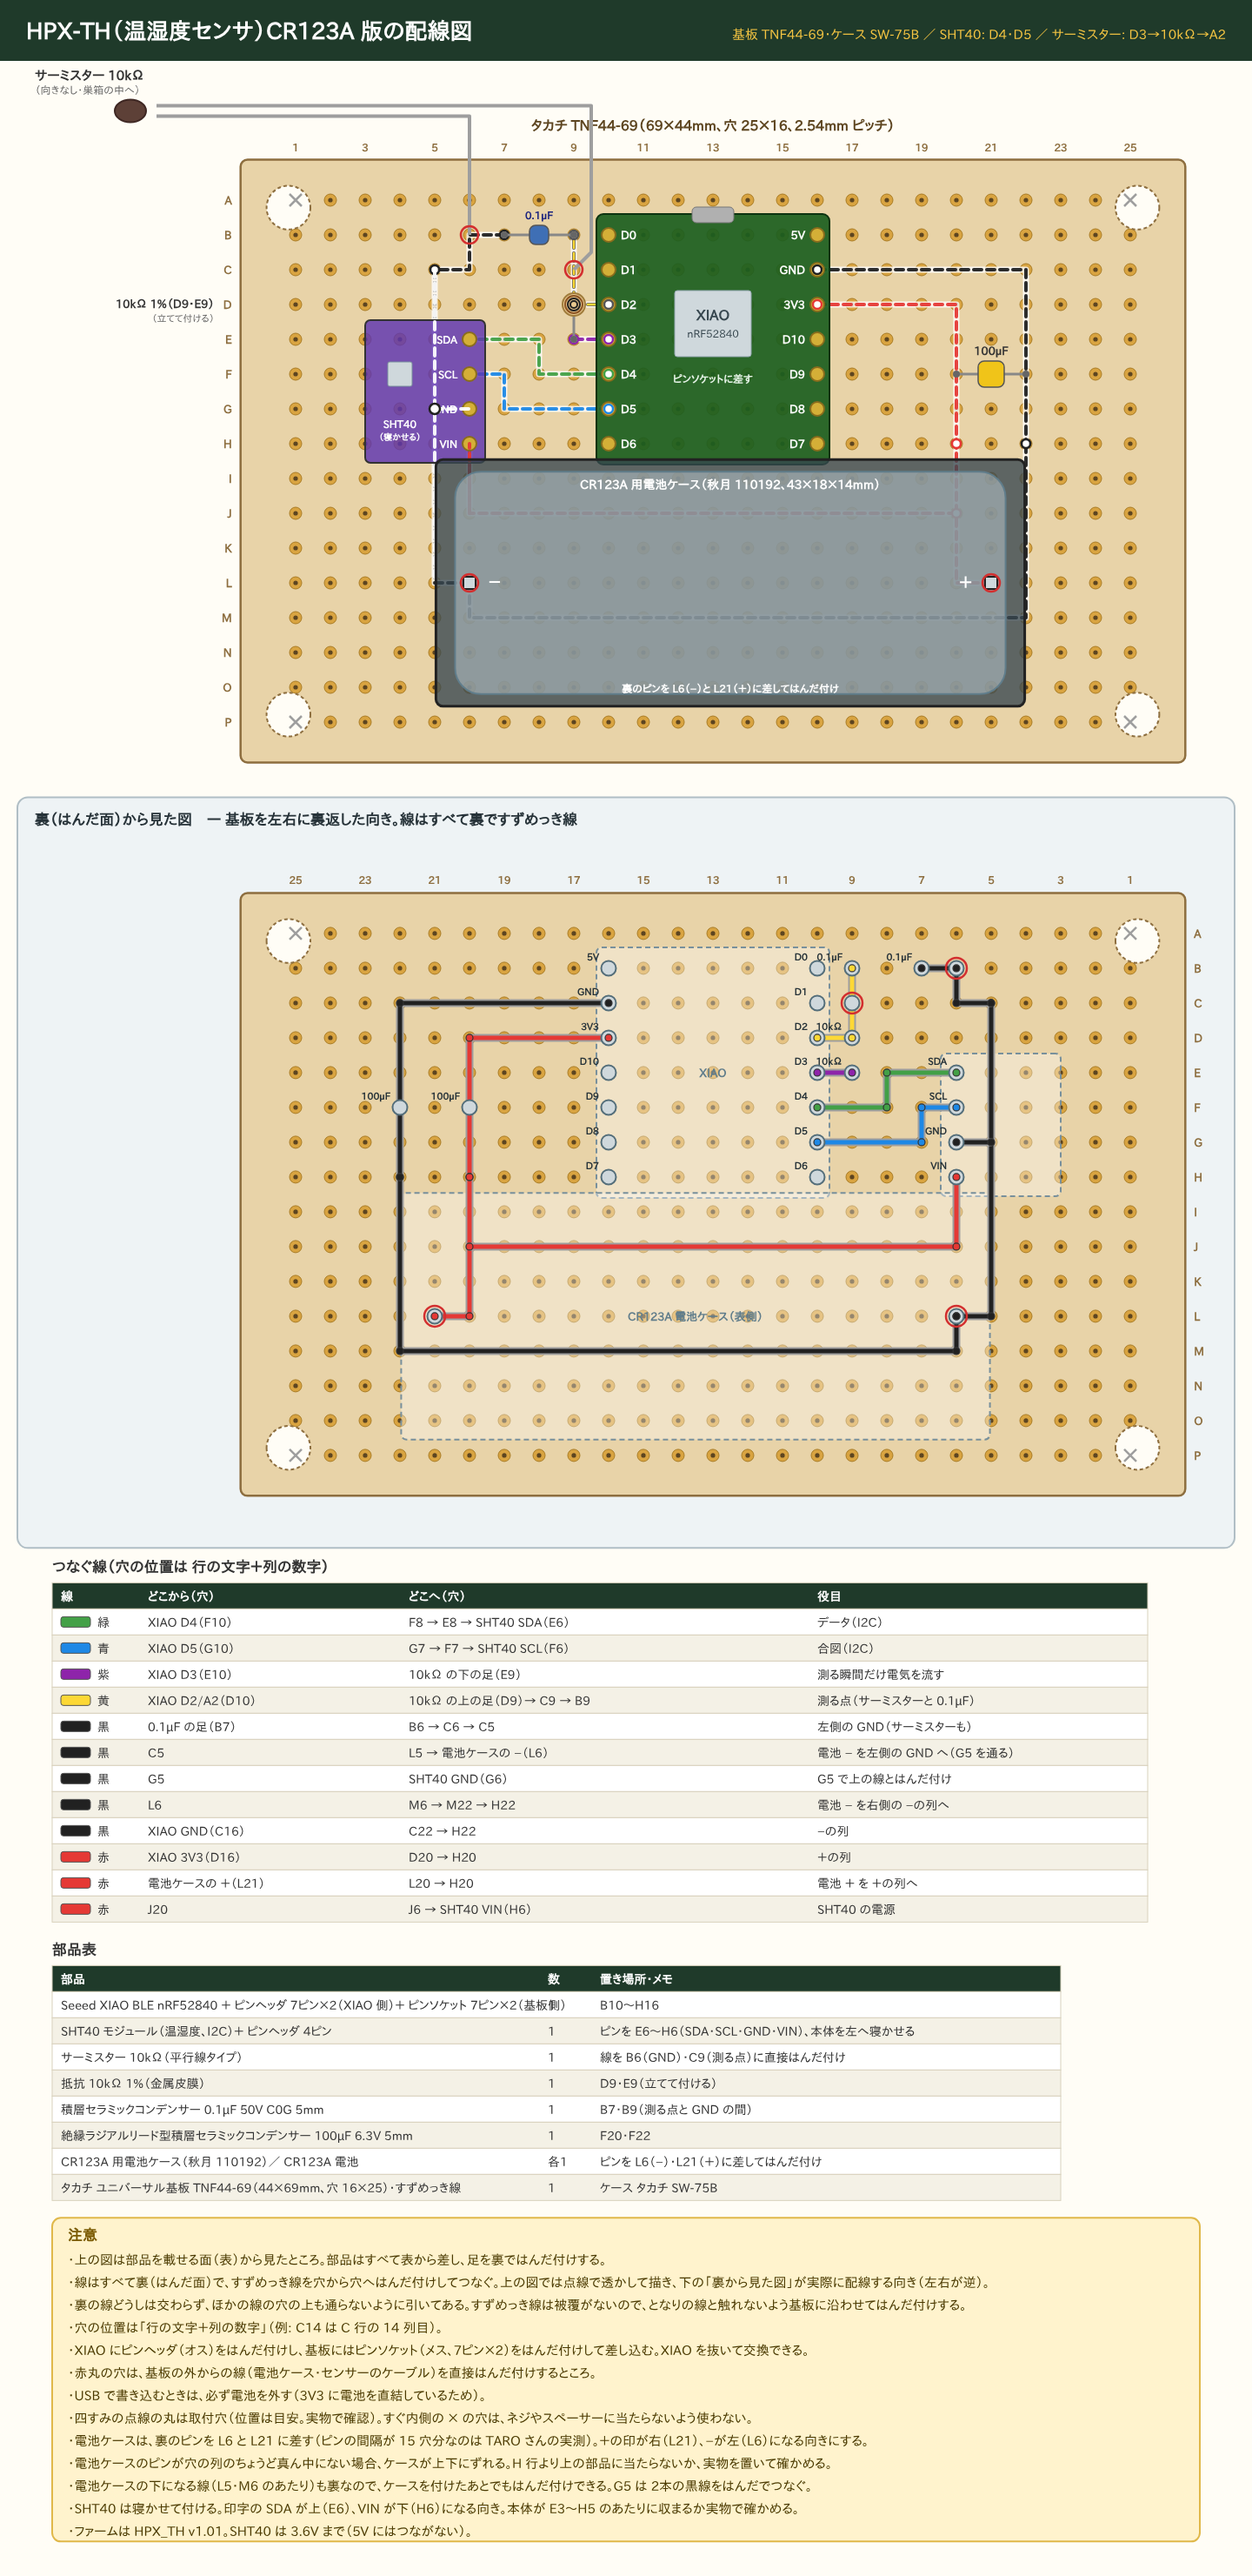
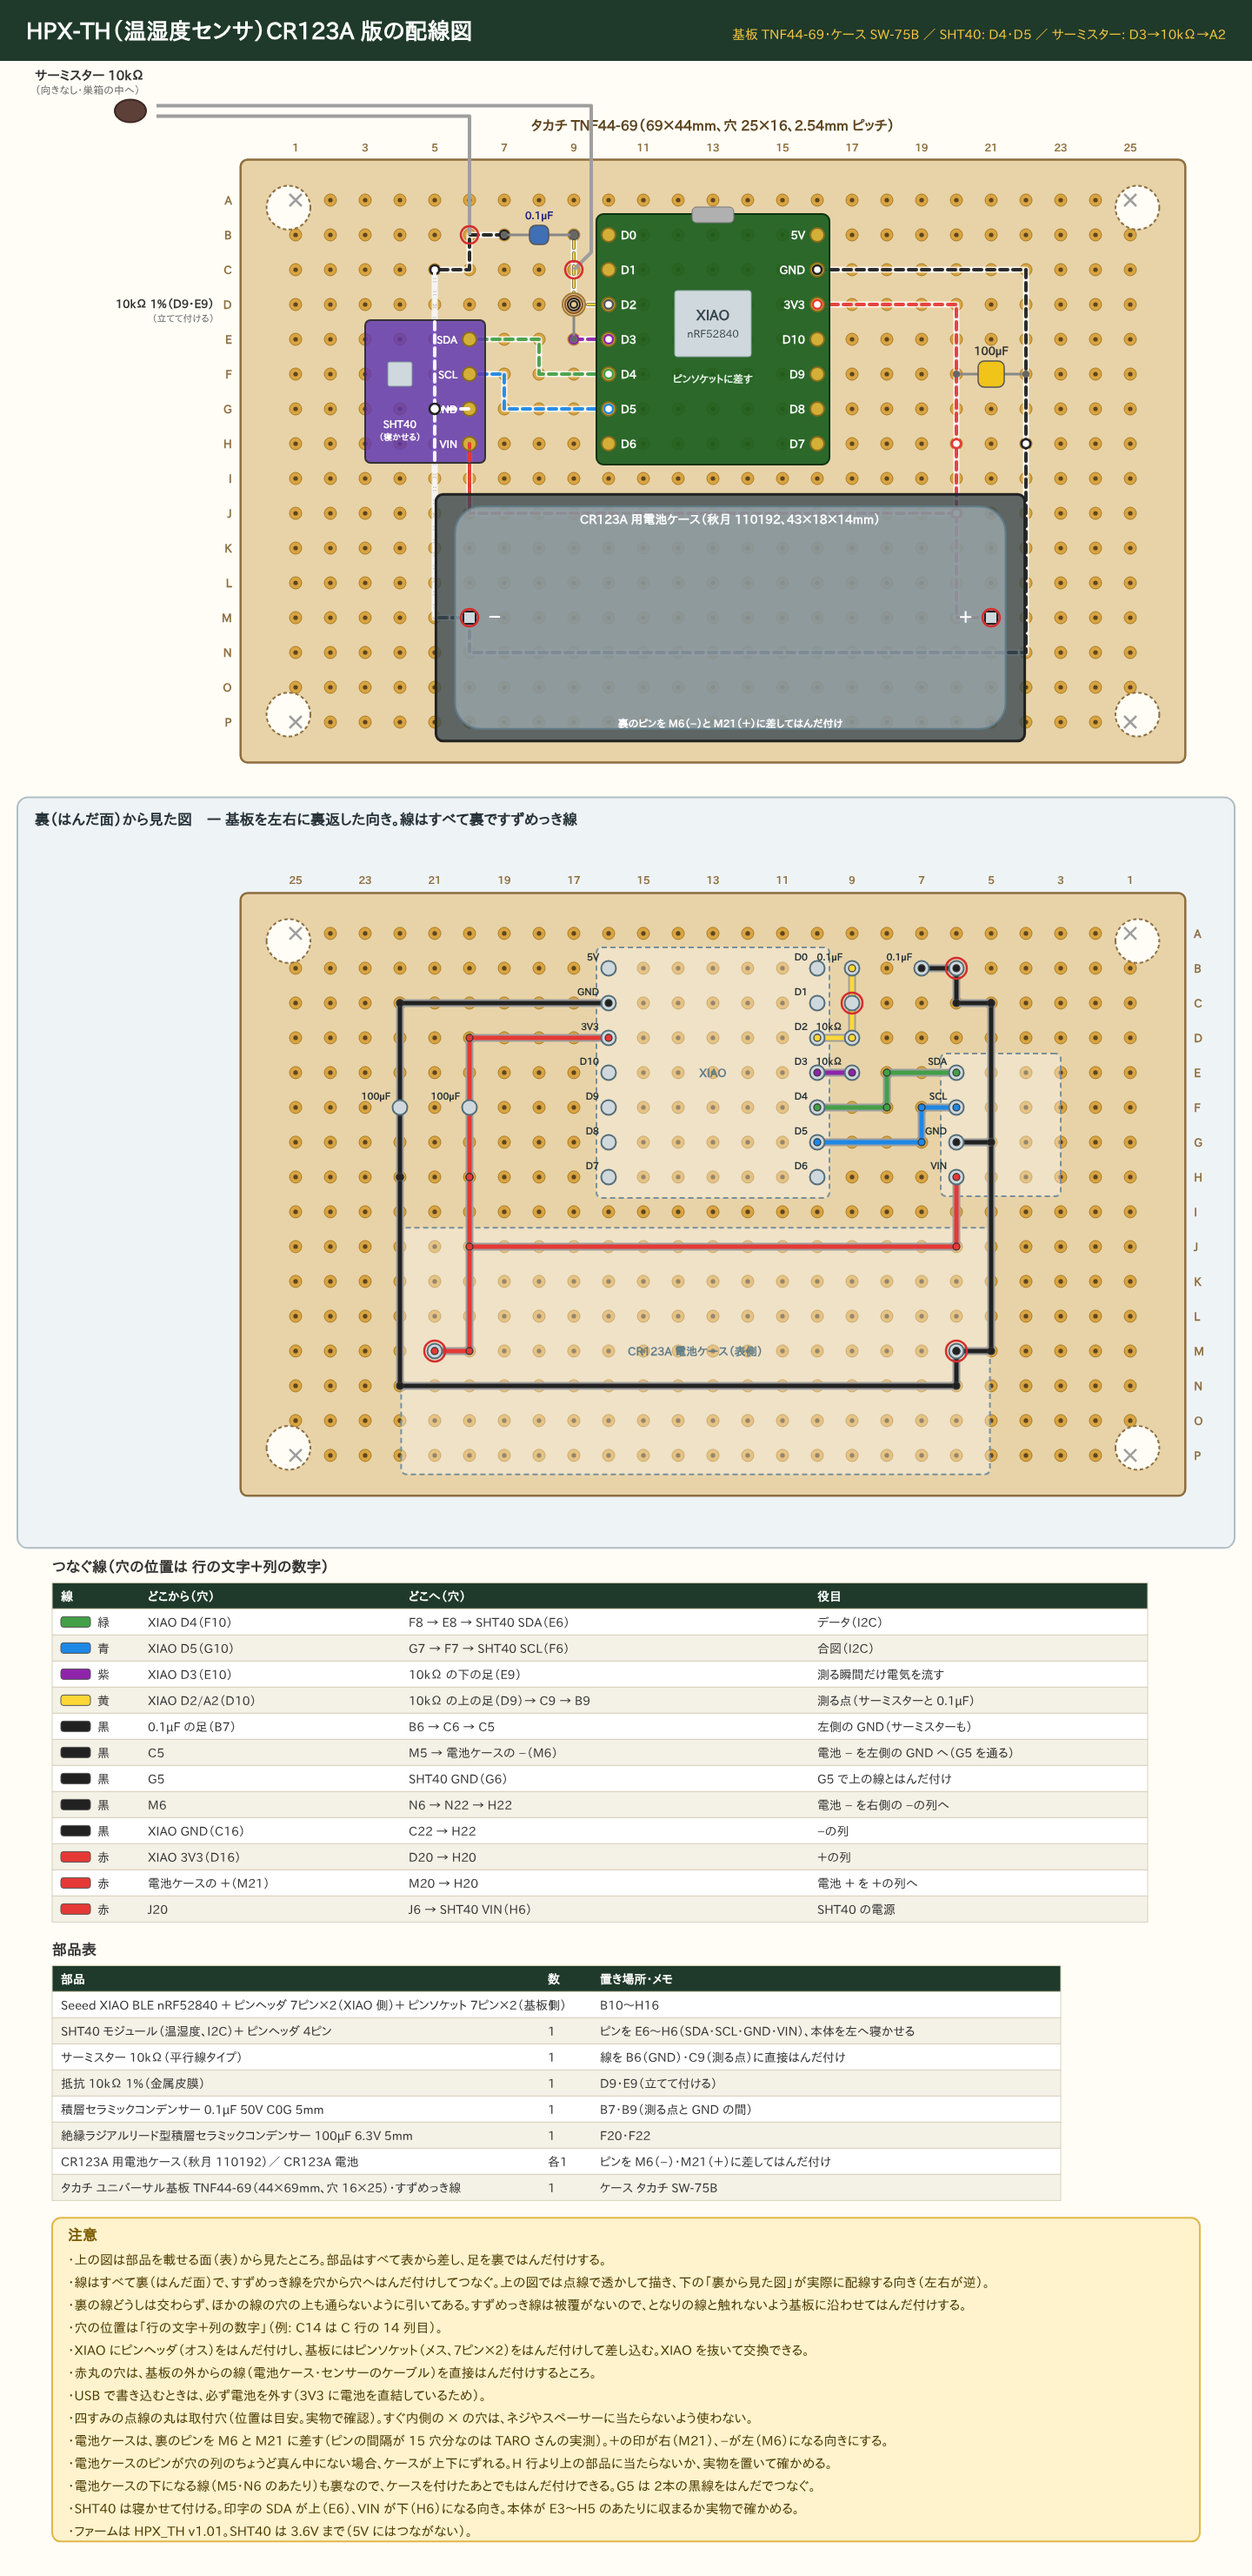
HPX-TH CR123A 版: 電池ケースを 1 穴下げる (ピンを M6・M21 へ)
Claude-Session: https://claude.ai/code/session_01LCC9B49tx6iTQWsNLLe4HY

Changed region(s): [[0.3438, 0.1554, 0.8125, 0.3107], [0.3125, 0.4661, 0.8125, 0.5903], [0.2812, 0.9321, 0.3125, 0.9632]]

diff --git a/hardware/wiring/case/gen_case_pcb.py b/hardware/wiring/case/gen_case_pcb.py
@@ -745,10 +745,10 @@ def make_TH_on(fname):
     x0, y0, bw, bh, k = GEO
     p = xiao_pcb(s, 7, 0)
     # ---- 裏の線 (先に描く) ----
-    wire_back(s, [(2, 1), (2, 10), (3, 10)], "black")              # B3 → K3 → K4 (電池−)
+    wire_back(s, [(2, 1), (2, 11), (3, 11)], "black")              # B3 → K3 → K4 (電池−)
     wire_back(s, [(2, 5), (3, 5)], "black")                        # F3 → F4 (SHT40 GND)
-    wire_back(s, [(3, 10), (3, 11), (19, 11), (19, 6)], "black")   # K4 → L4 → L20 → G20
-    wire_back(s, [(18, 10), (17, 10), (17, 6)], "red")             # K19 (電池＋) → K18 → G18
+    wire_back(s, [(3, 11), (3, 12), (19, 12), (19, 6)], "black")   # K4 → L4 → L20 → G20
+    wire_back(s, [(18, 11), (17, 11), (17, 6)], "red")             # K19 (電池＋) → K18 → G18
     wire_back(s, [(17, 8), (3, 8), (3, 6)], "red")                 # I18 → I4 → G4 (SHT40 VIN)
     # ---- 表の線 ----
     wireh(s, [p["D4"], (5, 4), (5, 3), (3, 3)], "green")
@@ -765,7 +765,7 @@ def make_TH_on(fname):
     # SHT40 を寝かせて付ける (ピンは 4 列、本体は左へ)
     flat_module(s, [3, 4, 5, 6], ["SDA", "SCL", "GND", "VIN"], "#5e35b1", 3, "", "", col=3)
     # SHT40 の下を通る裏の線を、本体の上に重ねて見せる
-    for pts, c in (([(2, 1), (2, 10)], "black"), ([(2, 5), (3, 5)], "black"), ([(3, 8), (3, 6)], "red")):
+    for pts, c in (([(2, 1), (2, 11)], "black"), ([(2, 5), (3, 5)], "black"), ([(3, 8), (3, 6)], "red")):
         d = "M" + " L".join(f"{H(*q)[0]},{H(*q)[1]}" for q in pts)
         s.top.append(f'<path d="{d}" fill="none" stroke="{COL[c] if c == "red" else "#fff"}" stroke-width="4" stroke-dasharray="9 6" stroke-linecap="round" opacity="0.95"/>')
     x5, y5 = H(2, 5)
@@ -784,17 +784,17 @@ def make_TH_on(fname):
     s.text(40, y0 - 92, "サーミスター 10kΩ", 15, weight="bold")
     s.text(40, y0 - 76, "（向きなし・巣箱の中へ）", 12, fill="#666")
     # 電池ケース: ピンを K4 (−) と K19 (＋) に差す
-    (px1, py), (px2, _) = H(3, 10), H(18, 10)
+    (px1, py), (px2, _) = H(3, 11), H(18, 11)
     bw2, bh2 = 43 * k, 18 * k
     bx, by = (px1 + px2) / 2 - bw2 / 2, py - bh2 / 2
     s.top.append(f'<rect x="{bx}" y="{by}" width="{bw2}" height="{bh2}" rx="8" fill="#37474f" fill-opacity="0.78" stroke="#222" stroke-width="3"/>')
     rec_part(bx, by, bw2, bh2, "CR123A 電池ケース（表側）")
     s.top.append(f'<rect x="{bx+22}" y="{by+14}" width="{bw2-44}" height="{bh2-28}" rx="30" fill="#b0bec5" fill-opacity="0.6" stroke="#607d8b" stroke-width="2"/>')
     s.text(bx + bw2 / 2, by + 34, "CR123A 用電池ケース（秋月 110192、43×18×14mm）", 14, "middle", "bold", "#fff", layer=s.top)
-    s.text(bx + bw2 / 2, by + bh2 - 16, f"裏のピンを {hn(3,10)}（−）と {hn(18,10)}（＋）に差してはんだ付け", 12, "middle", "bold", "#fff", layer=s.top)
+    s.text(bx + bw2 / 2, by + bh2 - 16, f"裏のピンを {hn(3, 11)}（−）と {hn(18, 11)}（＋）に差してはんだ付け", 12, "middle", "bold", "#fff", layer=s.top)
     s.text(px1 + 22, py + 6, "−", 22, "start", "bold", "#fff", layer=s.top)
     s.text(px2 - 22, py + 6, "＋", 18, "end", "bold", "#fff", layer=s.top)
-    for h in ((3, 10), (18, 10)):
+    for h in ((3, 11), (18, 11)):
         x, y = H(*h)
         s.top.append(f'<rect x="{x-7}" y="{y-7}" width="14" height="14" fill="#cfd8dc" stroke="#222" stroke-width="2"/>')
         solder_mark(s, *h)
@@ -806,12 +806,12 @@ def make_TH_on(fname):
         ["purple", f"XIAO D3（{hn(7,3)}）", f"10kΩ の下の足（{hn(6,3)}）", "測る瞬間だけ電気を流す"],
         ["yellow", f"XIAO D2/A2（{hn(7,2)}）", f"10kΩ の上の足（{hn(6,2)}）→ {hn(6,1)} → {hn(6,0)}", "測る点（サーミスターと 0.1µF）"],
         ["black", f"0.1µF の足（{hn(4,0)}）", f"{hn(3,0)} → {hn(3,1)} → {hn(2,1)}", "左側の GND（サーミスターも）"],
-        ["black", f"{hn(2,1)}", f"{hn(2,10)} → 電池ケースの −（{hn(3,10)}）", f"電池 − を左側の GND へ（{hn(2,5)} を通る）"],
+        ["black", f"{hn(2,1)}", f"{hn(2, 11)} → 電池ケースの −（{hn(3, 11)}）", f"電池 − を左側の GND へ（{hn(2,5)} を通る）"],
         ["black", f"{hn(2,5)}", f"SHT40 GND（{hn(3,5)}）", f"{hn(2,5)} で上の線とはんだ付け"],
-        ["black", f"{hn(3,10)}", f"{hn(3,11)} → {hn(19,11)} → {hn(19,6)}", "電池 − を右側の −の列へ"],
+        ["black", f"{hn(3, 11)}", f"{hn(3, 12)} → {hn(19, 12)} → {hn(19,6)}", "電池 − を右側の −の列へ"],
         ["black", f"XIAO GND（{hn(13,1)}）", f"{hn(19,1)} → {hn(19,6)}", "−の列"],
         ["red", f"XIAO 3V3（{hn(13,2)}）", f"{hn(17,2)} → {hn(17,6)}", "＋の列"],
-        ["red", f"電池ケースの ＋（{hn(18,10)}）", f"{hn(17,10)} → {hn(17,6)}", "電池 ＋ を ＋の列へ"],
+        ["red", f"電池ケースの ＋（{hn(18, 11)}）", f"{hn(17, 11)} → {hn(17,6)}", "電池 ＋ を ＋の列へ"],
         ["red", f"{hn(17,8)}", f"{hn(3,8)} → SHT40 VIN（{hn(3,6)}）", "SHT40 の電源"],
     ], [100, 300, 470, 390], "つなぐ線（穴の位置は 行の文字＋列の数字）")
     y = table(s, 60, y + 50, [
@@ -822,13 +822,13 @@ def make_TH_on(fname):
         ["抵抗 10kΩ 1%（金属皮膜）", "1", f"{hn(6,2)}・{hn(6,3)}（立てて付ける）"],
         ["積層セラミックコンデンサー 0.1µF 50V C0G 5mm", "1", f"{hn(4,0)}・{hn(6,0)}（測る点と GND の間）"],
         ["絶縁ラジアルリード型積層セラミックコンデンサー 100µF 6.3V 5mm", "1", f"{hn(17,4)}・{hn(19,4)}"],
-        ["CR123A 用電池ケース（秋月 110192）／ CR123A 電池", "各1", f"ピンを {hn(3,10)}（−）・{hn(18,10)}（＋）に差してはんだ付け"],
+        ["CR123A 用電池ケース（秋月 110192）／ CR123A 電池", "各1", f"ピンを {hn(3, 11)}（−）・{hn(18, 11)}（＋）に差してはんだ付け"],
         ["タカチ ユニバーサル基板 TNF44-69（44×69mm、穴 16×25）・すずめっき線", "1", "ケース タカチ SW-75B"],
     ], [560, 60, 540], "部品表")
     L = NOTES + [
-        f"・電池ケースは、裏のピンを {hn(3,10)} と {hn(18,10)} に差す（ピンの間隔が 15 穴分なのは TARO さんの実測）。＋の印が右（{hn(18,10)}）、−が左（{hn(3,10)}）になる向きにする。",
+        f"・電池ケースは、裏のピンを {hn(3, 11)} と {hn(18, 11)} に差す（ピンの間隔が 15 穴分なのは TARO さんの実測）。＋の印が右（{hn(18, 11)}）、−が左（{hn(3, 11)}）になる向きにする。",
         f"・電池ケースのピンが穴の列のちょうど真ん中にない場合、ケースが上下にずれる。{hn(0,6)[0]} 行より上の部品に当たらないか、実物を置いて確かめる。",
-        f"・電池ケースの下になる線（{hn(2,10)}・{hn(3,11)} のあたり）も裏なので、ケースを付けたあとでもはんだ付けできる。{hn(2,5)} は 2本の黒線をはんだでつなぐ。",
+        f"・電池ケースの下になる線（{hn(2, 11)}・{hn(3, 12)} のあたり）も裏なので、ケースを付けたあとでもはんだ付けできる。{hn(2,5)} は 2本の黒線をはんだでつなぐ。",
         f"・SHT40 は寝かせて付ける。印字の SDA が上（{hn(3,3)}）、VIN が下（{hn(3,6)}）になる向き。本体が {hn(0,3)}〜{hn(2,6)} のあたりに収まるか実物で確かめる。",
         "・ファームは HPX_TH v1.01。SHT40 は 3.6V まで（5V にはつながない）。",
     ]

diff --git a/hardware/wiring/case/README.md b/hardware/wiring/case/README.md
@@ -7,7 +7,7 @@
 |---|---|---|---|
 | HPX-W | CR123A | TNF39-70 (70×39.5mm、穴 25×14)。左下 44×22mm を切り取り、CR123A ケース (秋月 110192) を置く | [HPX-W_CR123A_TNF39-70.png](HPX-W_CR123A_TNF39-70.png) |
 | HPX-W | 単3リチウム×2 | TNF34-124 (124×34mm、穴 47×12)。右側に電池ボックス (秋月 117271) を両面テープで貼る | [HPX-W_AA_TNF34-124.png](HPX-W_AA_TNF34-124.png) |
-| HPX-TH | CR123A | TNF44-69 (69×44mm、穴 25×16、ケース SW-75B)。CR123A ケースの裏のピンを L6 (−)・L21 (＋) に差し、SHT40 は寝かせて付ける | [HPX-TH_CR123A_TNF44-69.png](HPX-TH_CR123A_TNF44-69.png) |
+| HPX-TH | CR123A | TNF44-69 (69×44mm、穴 25×16、ケース SW-75B)。CR123A ケースの裏のピンを M6 (−)・M21 (＋) に差し、SHT40 は寝かせて付ける | [HPX-TH_CR123A_TNF44-69.png](HPX-TH_CR123A_TNF44-69.png) |
 | HPX-TH | 単3リチウム×2 | ケース LC115H-M2-D の推奨基板の形 (本体 60×54.5mm ＋ 上の出っぱり 46×8.5mm、取付穴 φ2.5 ×4 を 53×40mm 間隔) にユニバーサル基板を切る | [HPX-TH_AA_LC115H.png](HPX-TH_AA_LC115H.png) |
 
 - 部品は表から差し、線はすべて裏ですずめっき線でつなぎます。各図の下半分に「裏から見た図」(左右が逆) があります。
